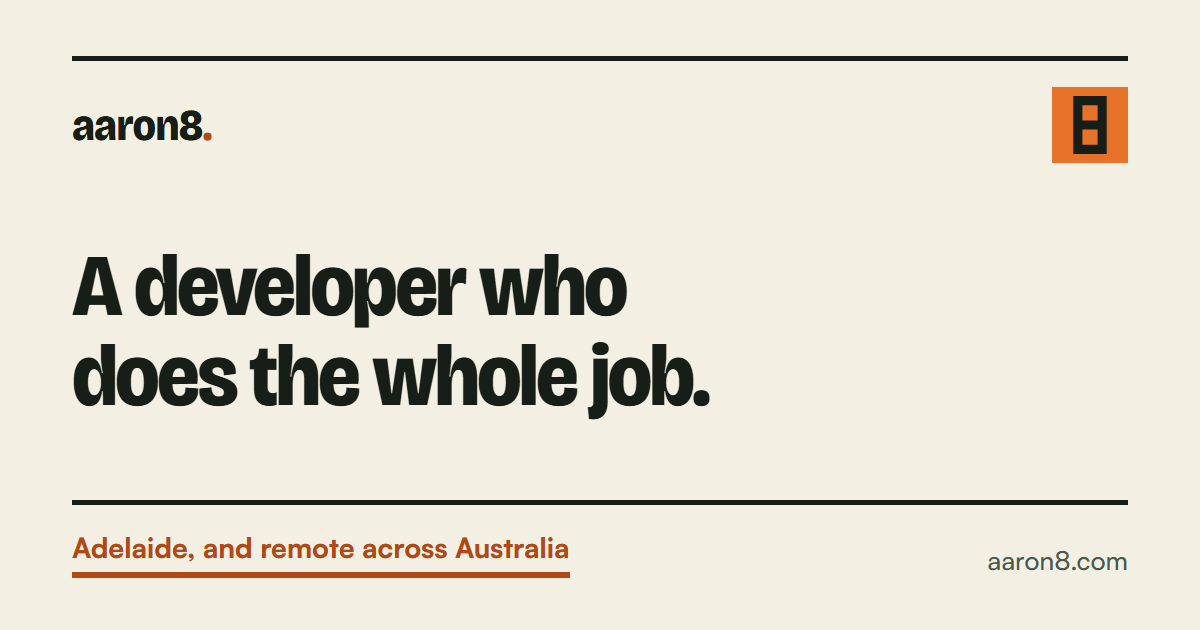
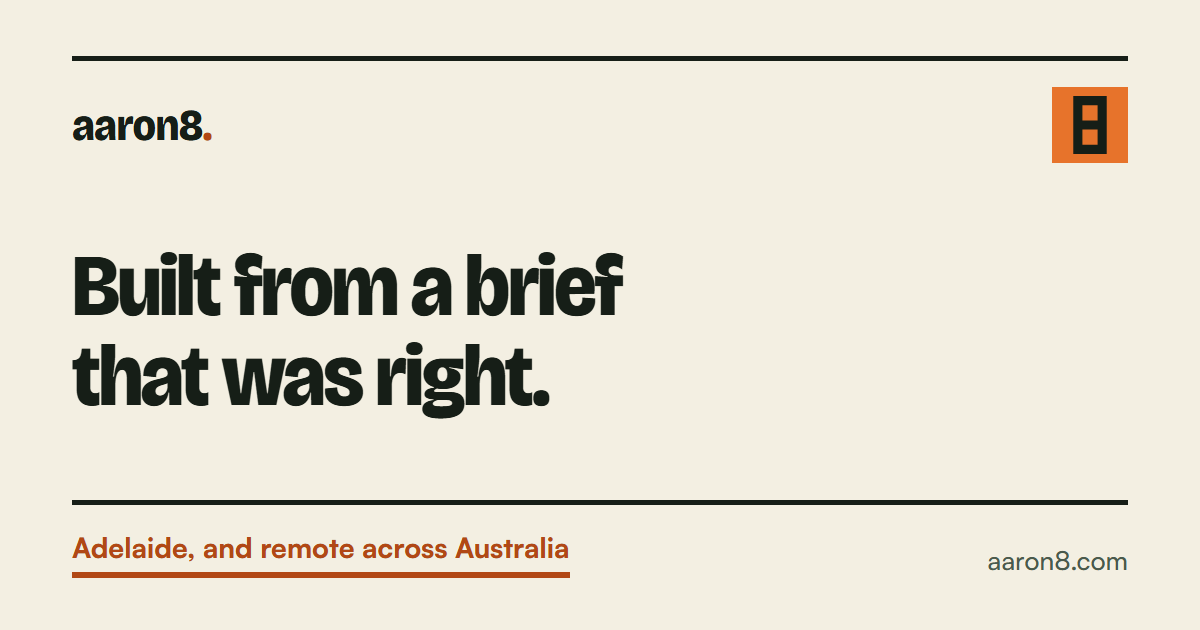
Stop selling headcount, which was selling a discount
Aaron's call, and he is right: one person doing the work of several is not a
feature, it is an invitation to haggle. Two lines put the discount in writing
on the two pages where price is the question:

  "One person with AI leverage quotes below the team it replaces"
  "One person with AI leverage sits at the friendly end of those ranges"

Both gone. So is the effort signal underneath them, the repeated "a quarter's
project for a team is now weeks of work for one person", which tells a buyer
the input is cheap on four pages.

The argument is now about the gap projects actually fall through rather than
the size of the team. The home page leads on the brief being right instead of
on one person doing the whole job, and "Why one person is enough now" becomes
"Where projects actually go wrong", because enough is an apology.

Kept deliberately: the FAQ answer to "Are you an agency?". It is a direct
question, and its reason was already the right one, nothing lost in a handover.

Claude-Session: https://claude.ai/code/session_01MR7JToN8pszPZ5EX2xXM3x

Changed region(s): [[0.0617, 0.5429, 0.5858, 0.6635], [0.0617, 0.3921, 0.5242, 0.5429]]

diff --git a/services/public/index.html b/services/public/index.html
@@ -4,10 +4,10 @@
 <meta charset="utf-8">
 <meta name="viewport" content="width=device-width, initial-scale=1">
 <title>Web, AI &amp; Full Stack Developer | Adelaide &amp; Remote Australia</title>
-<meta name="description" content="One developer who understands the business and runs AI like a delivery team: WordPress, web apps, custom software, CRM and automation, rescues. Adelaide based, remote Australia-wide. Every claim is checkable.">
+<meta name="description" content="Almost everything that goes wrong on a project was decided in the brief, not the build. Eleven years writing those briefs, and I build the thing too. WordPress, web apps, custom software, CRM and automation, rescues. Adelaide based, remote Australia-wide. Every claim is checkable.">
 <link rel="canonical" href="https://aaron8.com/">
 <meta property="og:title" content="Web, AI &amp; Full Stack Developer, Adelaide">
-<meta property="og:description" content="One developer who understands the business and runs AI like a delivery team. WordPress, web apps, CRM, automations, rescues. Remote Australia-wide.">
+<meta property="og:description" content="Almost everything that goes wrong on a project was decided in the brief. Eleven years writing those briefs, and I build the thing too. WordPress, web apps, CRM, automations, rescues.">
 <meta property="og:type" content="website">
 <meta property="og:image" content="https://aaron8.com/og/default.png">
 <meta name="twitter:card" content="summary_large_image">
@@ -56,11 +56,13 @@
   <div class="hero">
     <div class="wrap">
       <p class="tag">Aaron Steele &middot; Adelaide, South Australia &middot; remote Australia-wide</p>
-      <h1 class="measure">A developer who does the whole job.</h1>
+      <h1 class="measure">Built from a brief that was right.</h1>
       <p class="lede">
-        Websites, web apps, WordPress, CRMs, automations, rescues. I have spent eleven years
-        working out what businesses actually need, and I run AI like a delivery team, so
-        <b>one person now does what used to take several, and knows why it's being built.</b>
+        Websites, web apps, WordPress, CRMs, automations, rescues. Almost everything that goes
+        wrong on a project was decided before anyone wrote code. I spent eleven years writing
+        the brief that stops that, in places where getting it wrong had consequences, and
+        <b>I build the thing as well, so nothing is lost between what was agreed and what
+        arrives.</b>
       </p>
       <div class="cta-row">
         <a class="btn" href="/contact/">Tell me what's broken</a>
@@ -73,13 +75,13 @@
   <section class="section">
     <div class="wrap">
       <p class="tag">The point</p>
-      <h2 class="measure">Why one person is enough now.</h2>
+      <h2 class="measure">Where projects actually go wrong.</h2>
       <p class="measure-wide dim" style="margin-top:var(--s5)">
-        An AI coding agent is a delivery team: fast, tireless, literal, and perfectly willing to
-        build the wrong thing beautifully if nobody tells it what right looks like. I spent a
-        decade writing the brief that stops exactly that happening to rooms full of contractors,
-        and it turns out to be the same skill. <b>That combination is what you are hiring.</b>
-        The jobs below are just where it lands.
+        Not in the build. In the brief. An AI coding agent is fast, tireless, literal, and
+        perfectly willing to build the wrong thing beautifully if nobody tells it what right
+        looks like, which is exactly what rooms full of contractors did before it. I spent
+        eleven years writing the specification that stops that, and it is the same skill either way.
+        <b>That judgement is what you are hiring.</b> The jobs below are where it lands.
       </p>
       <div class="cta-row">
         <a class="link" href="/ai-development/">How I run AI on your job <span aria-hidden="true">&rarr;</span></a>
@@ -90,7 +92,7 @@
   <section class="section">
     <div class="wrap">
       <p class="tag">What I do</p>
-      <h2 class="measure">Pick the job. It's all one person.</h2>
+      <h2 class="measure">Pick the job.</h2>
       <ul class="cards">
         <li>
           <h3><a href="/ai-development/">AI development &amp; agents</a></h3>

diff --git a/services/public/answers/how-much-does-a-website-cost/index.html b/services/public/answers/how-much-does-a-website-cost/index.html
@@ -29,7 +29,7 @@
           "name": "How much does a website cost in Australia?",
           "acceptedAnswer": {
             "@type": "Answer",
-            "text": "In the Australian market, a small business site from a freelancer commonly lands somewhere between $2,000 and $10,000, agencies typically start where freelancers finish, and e-commerce or custom features push higher. The honest answer for your site is a fixed written quote, and the drivers below are what actually move the number. Pages are cheap; thinking is not. The cost drivers are how much content exists versus needs writing, whether the design is bespoke or a well-executed standard, what the site must connect to (bookings, payments, your CRM), and how much of the old site's traffic must survive the move. A brochure site and a site wired into your operations are different purchases wearing the same word. Paying agency overheads for freelancer work, rebuilding what only needed repair, and page-builder subscriptions stacked on cheap hosting to compensate for a heavy build. The other classic: a beautiful site with no thought given to the searches that should find it, discovered six months later when the phone has not rung. Fixed, in writing, after seeing what exists and hearing what the site must do. One person with AI leverage quotes below the team it replaces, and if a repair or a refresh serves you better than the rebuild you asked about, the quote says that instead. See website rebuilds for the method."
+            "text": "In the Australian market, a small business site from a freelancer commonly lands somewhere between $2,000 and $10,000, agencies typically start where freelancers finish, and e-commerce or custom features push higher. The honest answer for your site is a fixed written quote, and the drivers below are what actually move the number. Pages are cheap; thinking is not. The cost drivers are how much content exists versus needs writing, whether the design is bespoke or a well-executed standard, what the site must connect to (bookings, payments, your CRM), and how much of the old site's traffic must survive the move. A brochure site and a site wired into your operations are different purchases wearing the same word. Paying agency overheads for freelancer work, rebuilding what only needed repair, and page-builder subscriptions stacked on cheap hosting to compensate for a heavy build. The other classic: a beautiful site with no thought given to the searches that should find it, discovered six months later when the phone has not rung. Fixed, in writing, after seeing what exists and hearing what the site must do. A vague brief is what makes a quote wide, so the specification comes first. And if a repair or a refresh serves you better than the rebuild you asked about, the quote says that instead. See website rebuilds for the method."
           }
         }
       ]
@@ -124,10 +124,7 @@
         </div>
         <div class="row">
           <h3>How I quote it</h3>
-          <div>Fixed, in writing, after seeing what exists and hearing what the site must do.
-             One person with AI leverage quotes below the team it replaces, and if a repair or
-             a refresh serves you better than the rebuild you asked about, the quote says that
-             instead. See <a href="/website-rebuild/">website rebuilds</a> for the method.</div>
+          <div>Fixed, in writing, after seeing what exists and hearing what the site must do. A vague brief is what makes a quote wide, so the specification comes first. And if a repair or a refresh serves you better than the rebuild you asked about, the quote says that instead. See <a href="/website-rebuild/">website rebuilds</a> for the method.</div>
         </div>
       </div>
       <div class="cta-row" style="margin-top:var(--s7)">

diff --git a/services/public/answers/can-ai-build-software/index.html b/services/public/answers/can-ai-build-software/index.html
@@ -29,7 +29,7 @@
           "name": "Can AI really build production software?",
           "acceptedAnswer": {
             "@type": "Answer",
-            "text": "Yes: two of my tools are live on the internet with public source, and a full platform build with 52 automated checks sits in a public repository, all AI-built under direction. What AI cannot do is know what your business needs, notice its own confident mistakes, or prove its work: that is the human's job. Volume and speed: the typing is no longer scarce. Internal tools that were a quarter's project for a team are now weeks for one person, which moves whole categories of software from \"not worth it\" to \"obviously worth it\". Something has to define right, check the result against reality, and take responsibility. AI will build the wrong thing beautifully, describe tests that do not exist, and say \"done\" as a vibe rather than a fact. I run it like a delivery team: written specifications, adversarial review, proof against sources it does not control, per AI development. Ask for something inspectable without trust: live software, public source, a build you can run. Mine is at the reference build; anyone who cannot show equivalent is asking you to buy on charm."
+            "text": "Yes: two of my tools are live on the internet with public source, and a full platform build with 52 automated checks sits in a public repository, all AI-built under direction. What AI cannot do is know what your business needs, notice its own confident mistakes, or prove its work: that is the human's job. Volume and speed: the typing is no longer scarce. Internal tools that were a quarter's project are now a matter of weeks, which moves whole categories of software from \"not worth it\" to \"obviously worth it\". Something has to define right, check the result against reality, and take responsibility. AI will build the wrong thing beautifully, describe tests that do not exist, and say \"done\" as a vibe rather than a fact. I run it like a delivery team: written specifications, adversarial review, proof against sources it does not control, per AI development. Ask for something inspectable without trust: live software, public source, a build you can run. Mine is at the reference build; anyone who cannot show equivalent is asking you to buy on charm."
           }
         }
       ]
@@ -108,7 +108,7 @@
         <div class="row">
           <h3>What changes with AI</h3>
           <div>Volume and speed: the typing is no longer scarce. Internal tools that were a
-             quarter's project for a team are now weeks for one person, which moves whole
+             quarter's project are now a matter of weeks, which moves whole
              categories of software from "not worth it" to "obviously worth it".</div>
         </div>
         <div class="row">

diff --git a/services/public/answers/how-long-does-an-app-take/index.html b/services/public/answers/how-long-does-an-app-take/index.html
@@ -29,7 +29,7 @@
           "name": "How long does it take to build an app?",
           "acceptedAnswer": {
             "@type": "Answer",
-            "text": "A focused first version of a business app typically runs six to twelve weeks including app-store review; sprawling scopes run to quarters. With AI leverage the coding is no longer the long pole: deciding what to build, integrating your systems, and store review are. A couple of weeks of scoping and design, several weeks of build with working software visible weekly, then integration with your real systems, then Apple and Google review, which runs days when prepared for and weeks when not. Scope that grows mid-build, waiting on access to systems the app must talk to, and decision-makers who surface in week eight. All three are process problems; a written scope and one empowered owner prevent them. One person specifying and building with AI, showing working software weekly, is faster than the old team model precisely because nothing is lost between the person who understood and the person who typed. See mobile apps for the method."
+            "text": "A focused first version of a business app typically runs six to twelve weeks including app-store review; sprawling scopes run to quarters. With AI leverage the coding is no longer the long pole: deciding what to build, integrating your systems, and store review are. A couple of weeks of scoping and design, several weeks of build with working software visible weekly, then integration with your real systems, then Apple and Google review, which runs days when prepared for and weeks when not. Scope that grows mid-build, waiting on access to systems the app must talk to, and decision-makers who surface in week eight. All three are process problems; a written scope and one empowered owner prevent them. Specifying and building in the same pair of hands, showing working software weekly, is faster than the old team model precisely because nothing is lost between the person who understood and the person who typed. See mobile apps for the method."
           }
         }
       ]
@@ -119,9 +119,7 @@
         </div>
         <div class="row">
           <h3>What speed looks like now</h3>
-          <div>One person specifying and building with AI, showing working software weekly,
-             is faster than the old team model precisely because nothing is lost between the
-             person who understood and the person who typed. See
+          <div>Specifying and building in the same pair of hands, showing working software weekly, is faster than the old team model precisely because nothing is lost between the person who understood and the person who typed. See
              <a href="/mobile-apps/">mobile apps</a> for the method.</div>
         </div>
       </div>

diff --git a/services/public/ai-development/index.html b/services/public/ai-development/index.html
@@ -53,7 +53,7 @@
         {
           "@type": "Question",
           "name": "What does AI-assisted development cost compared to an agency?",
-          "acceptedAnswer": { "@type": "Answer", "text": "You still get a fixed quote in writing before anything starts. What has changed is how much scope now fits inside a small business budget: internal tools that used to be a quarter's project for a team are now weeks of work for one person. The quote shows you exactly what that means for your job." }
+          "acceptedAnswer": { "@type": "Answer", "text": "You still get a fixed quote in writing before anything starts. What has changed is how much scope now fits inside a small business budget: internal tools that used to be a quarter's project are now a matter of weeks. The quote shows you exactly what that means for your job." }
         },
         {
           "@type": "Question",
@@ -95,8 +95,7 @@
       <p class="lede">
         Most people paste a prompt in and hope. I run AI the way you would run a delivery team:
         a written specification, adversarial review, and proof against things the AI does not
-        control. <b>The result is team-sized output from one person who understands your
-        business</b>, and you can inspect the evidence before you spend a dollar.
+        control. <b>The result is software that matches what your business actually does</b>, and you can inspect the evidence before you spend a dollar.
       </p>
       <div class="cta-row">
         <a class="btn" href="/contact/">Describe the job</a>
@@ -125,8 +124,7 @@
       <div class="rows">
         <div class="row">
           <h3>Internal tools in weeks</h3>
-          <div>The job tracker, quoting screen or portal that used to be a quarter's project for
-            a team is now weeks of work for one person, because the specification and the build
+          <div>The job tracker, quoting screen or portal that used to be a quarter's project is now a matter of weeks, because the specification and the build
             are the same brain and there is no handover for the meaning to go missing in.</div>
         </div>
         <div class="row">
@@ -221,7 +219,7 @@
           <summary>What does it cost against an agency?</summary>
           <div>You still get a fixed quote in writing before anything starts. What has changed
           is how much scope fits inside a small business budget now: internal tools that used to
-          be a quarter's project for a team are weeks of work for one person. The quote shows
+          be a quarter's project are now a matter of weeks. The quote shows
           you what that means for your job specifically.</div>
         </details>
         <details>

diff --git a/services/public/pricing/index.html b/services/public/pricing/index.html
@@ -118,9 +118,9 @@
             commonly costs in Australia from an independent senior developer, and kept wide on
             purpose: your specifics narrow them, and only a conversation earns a single
             number.</li>
-        <li><b>One person with AI leverage sits at the friendly end</b> of those ranges more
-            often than not, because you are not funding an office, an account manager and a
-            pitch deck.</li>
+        <li><b>The range narrows once the job is specified</b>, and not before. A wide quote is
+            a sign nobody has worked out what is being built yet, which is also what makes
+            projects overrun.</li>
         <li><b>Your details go to me, once.</b> No list, no automation sequence, no reselling.
             At most one follow-up email or call, then silence unless you want more.</li>
         <li><b>Sometimes the honest output is "don't spend it":</b> several paths in this

diff --git a/services/public/industries/nonprofits/index.html b/services/public/industries/nonprofits/index.html
@@ -130,9 +130,7 @@
         </div>
         <div class="row">
           <h3>Capacity on a charity budget</h3>
-          <div>One person with <a href="/ai-development/">AI leverage</a> is the shape of help
-             an NFP can afford: the intake automation, the volunteer roster, the small internal
-             tool, at quotes a board can approve without a special meeting.</div>
+          <div>The work an NFP can actually get funded is a scoped piece, not a programme: the intake automation, the volunteer roster, the small internal tool. Each one is specified and quoted on its own, so a board can approve it without a special meeting.</div>
         </div>
       </div>
     </div>
